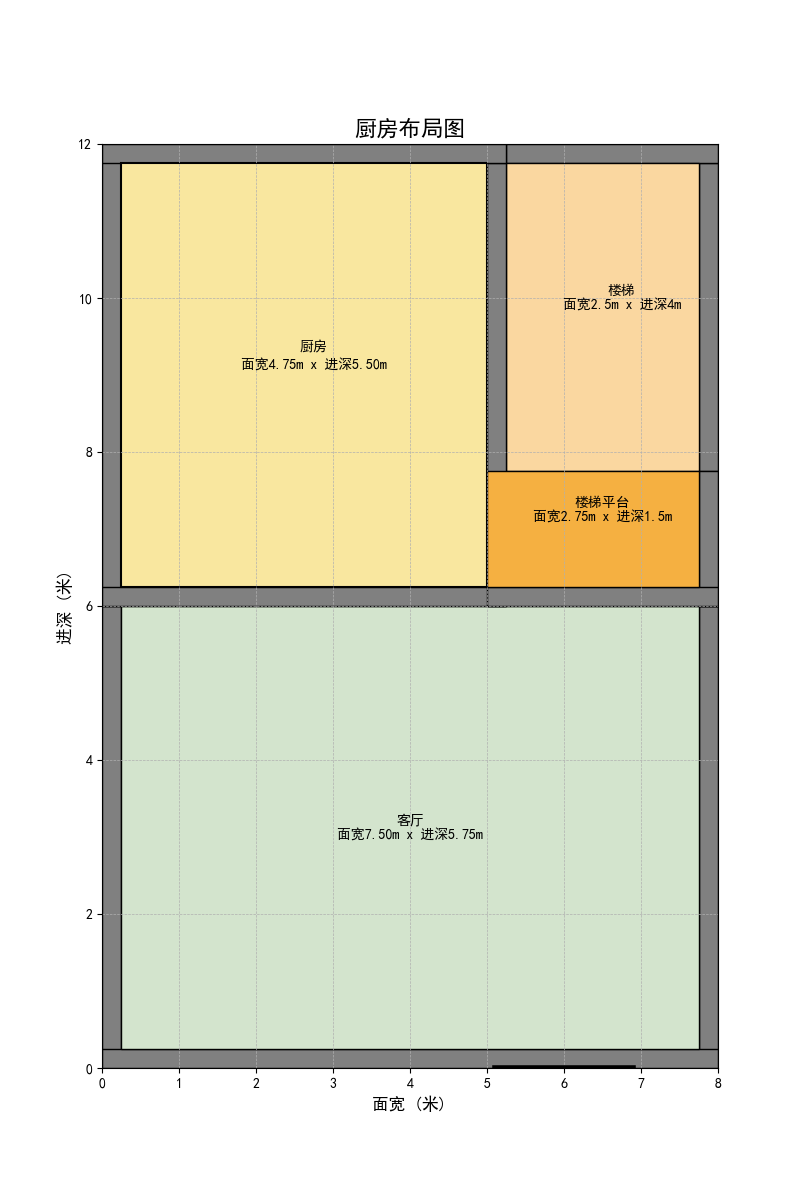
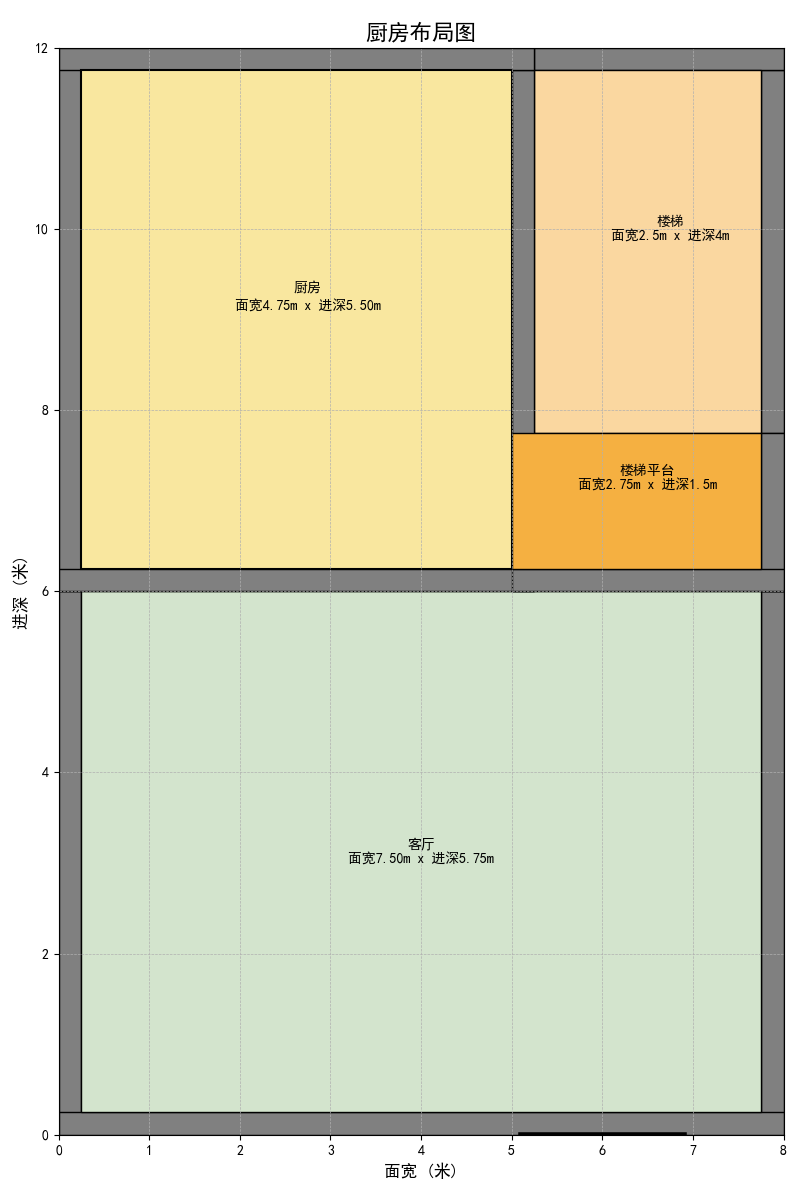
perf(floor_1nd.py/floor_1_5nd.py): add plt.tight_layout()

diff --git a/floor_1_5nd.py b/floor_1_5nd.py
@@ -132,4 +132,5 @@ assert ax.get_xlim() == (0, 8), "面宽应为8米"
 assert ax.get_ylim() == (0, 12), "进深应为12米"
 
 # 显示图形
+plt.tight_layout()
 plt.show()

diff --git a/floor_1nd.py b/floor_1nd.py
@@ -146,4 +146,5 @@ plt.xlabel("面宽 (米)", fontsize=12)
 plt.ylabel("进深 (米)", fontsize=12)
 
 # 显示图形
+plt.tight_layout()
 plt.show()
